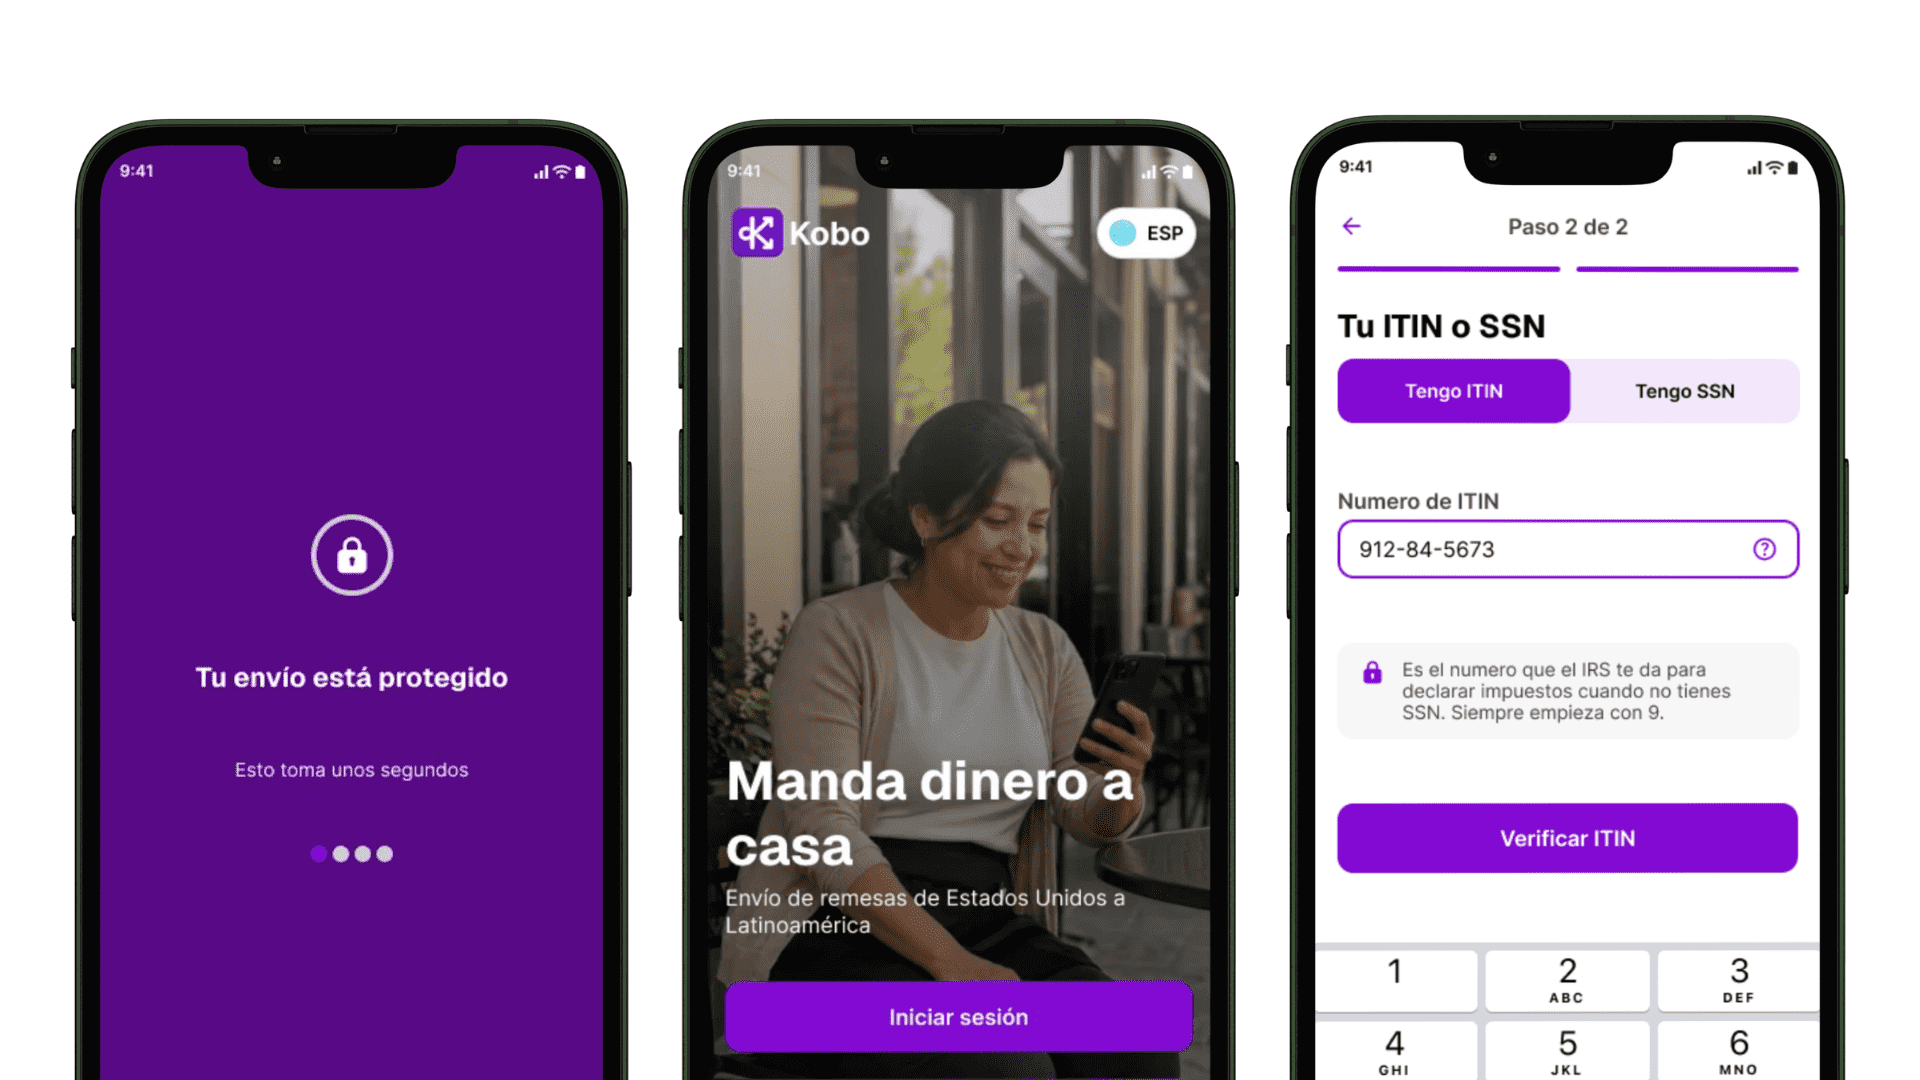
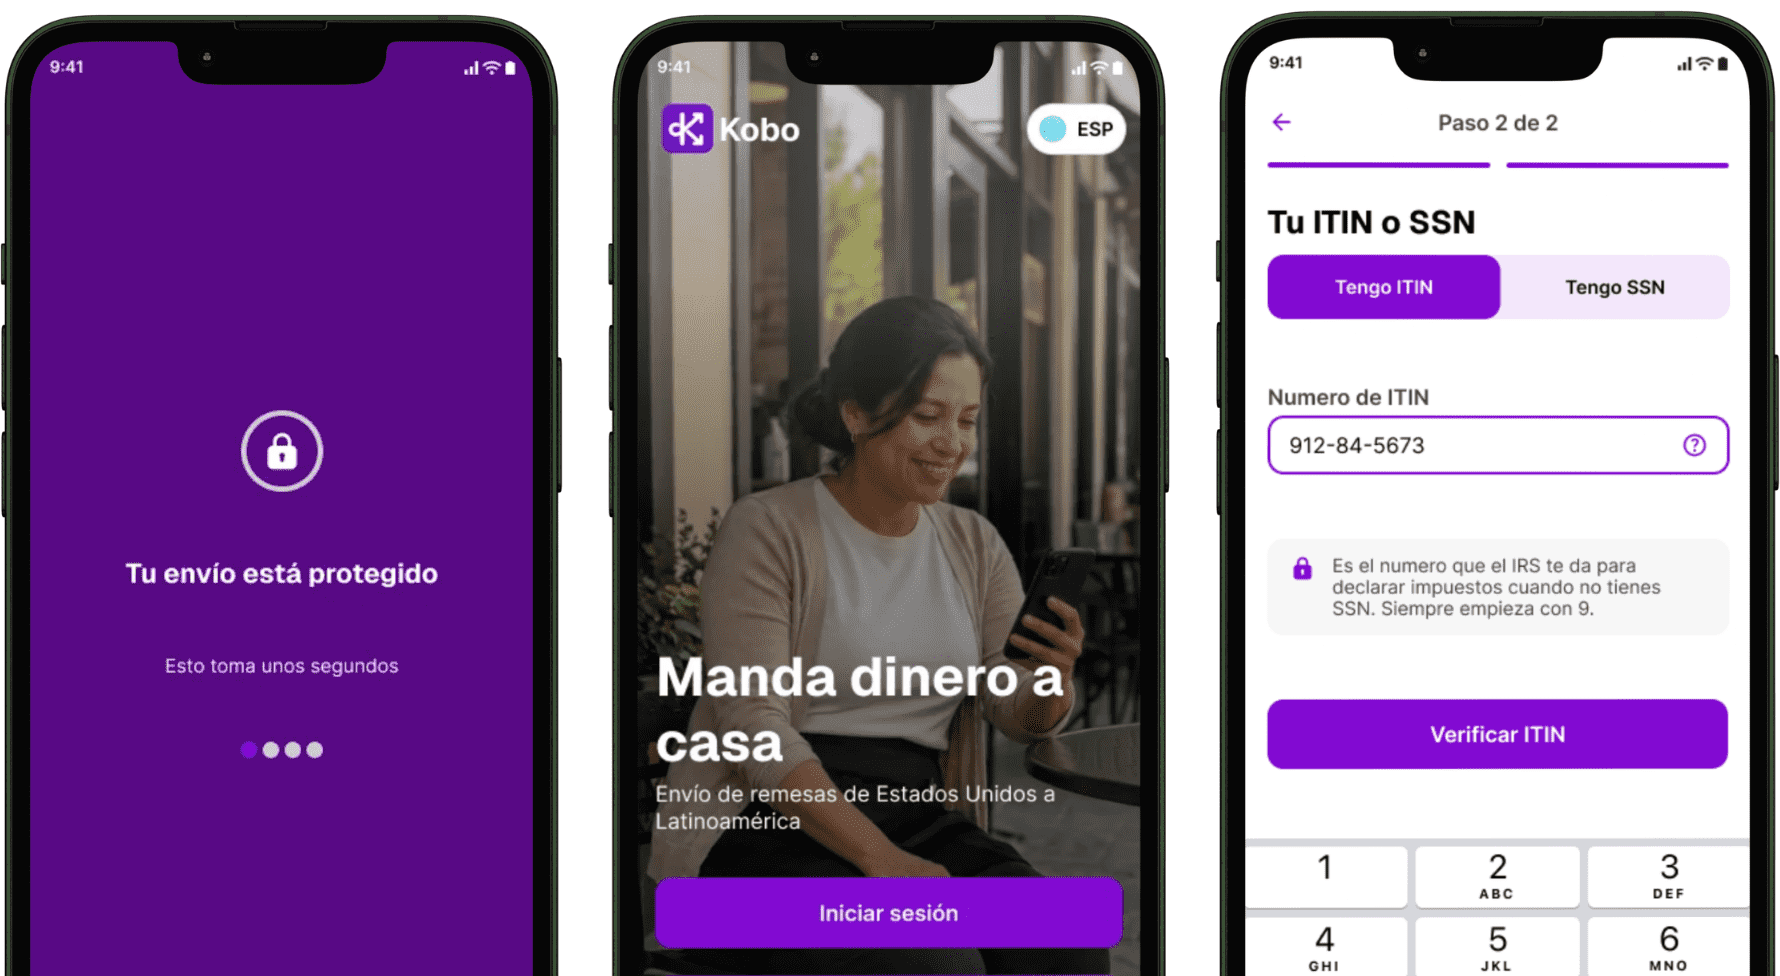
Inicio: ajusta la tarjeta flagship (margen, fondo blanco, animacion)
- Quita el fondo blanco de la imagen de mockups (era parte de la imagen
  fuente, no del CSS): se recorta el margen blanco excedente alrededor
  de los 3 telefonos.
- Aumenta el padding de la tarjeta de 20-32px a 28-48px y quita un
  margin-right negativo heredado del layout viejo que pegaba la imagen
  al borde derecho, para que se vea con mas aire.
- Suaviza la animacion de hover/active: quita el translateY (se sentia
  como un "brinco") y deja solo el cambio de fondo con una sombra mas
  ligera.

diff --git a/index.html b/index.html
@@ -46,9 +46,9 @@ html,body{margin:0;padding:0}
 .hv14:hover{background:#000 !important}
 .hv15:hover{color:#A75B7D !important;border-color:#A75B7D !important}
 .hv16:hover{color:#171717 !important;border-color:#171717 !important}
-.flagship-card{cursor:pointer;border-radius:20px;transition:background .25s ease,transform .25s ease,box-shadow .25s ease}
-.flagship-card:hover{background:#F7EDEE;transform:translateY(-3px);box-shadow:0 14px 32px rgba(167,91,125,.14)}
-.flagship-card:active{background:#F4DDE5;transform:translateY(-1px);box-shadow:0 6px 16px rgba(167,91,125,.12)}
+.flagship-card{cursor:pointer;border-radius:20px;transition:background .3s ease,box-shadow .3s ease}
+.flagship-card:hover{background:#F7EDEE;box-shadow:0 8px 20px rgba(167,91,125,.1)}
+.flagship-card:active{background:#F4DDE5;box-shadow:0 4px 12px rgba(167,91,125,.1)}
 </style>
 </head>
 <body>
@@ -95,7 +95,7 @@ html,body{margin:0;padding:0}
     </div>
 
     <div style="padding-top:clamp(32px,4vw,52px)">
-      <div class="flagship-card" data-go="Case study" role="button" tabindex="0" style="display:grid;grid-template-columns:repeat(auto-fit,minmax(min(100%,340px),1fr));gap:clamp(28px,4vw,56px);align-items:start;padding:clamp(20px,3vw,32px)">
+      <div class="flagship-card" data-go="Case study" role="button" tabindex="0" style="display:grid;grid-template-columns:repeat(auto-fit,minmax(min(100%,340px),1fr));gap:clamp(28px,4vw,56px);align-items:start;padding:clamp(28px,4vw,48px)">
         <div>
           <div style="display:flex;align-items:baseline;gap:14px;margin-bottom:16px">
             <span style="font-size:13px;color:#6E6E6E;font-weight:500">01</span>
@@ -115,7 +115,7 @@ html,body{margin:0;padding:0}
           </div>
           <div data-go="Case study" role="button" tabindex="0" style="cursor:pointer;display:inline-flex;align-items:center;gap:10px;height:52px;padding:0 28px;background:#171717;color:#FAFAFA;border-radius:8px;font-size:16.5px;font-weight:500;margin-top:28px;transition:background .18s ease" class="hv2">Ver case study <span style="font-size:17px">→</span></div>
         </div>
-        <div style="margin-right:clamp(-40px,-3vw,0px)">
+        <div>
           <div style="aspect-ratio: 4/5; min-height: 380px; background: url(&quot;img/mockup-page-mttzffej-o9qz.png&quot;) center / cover no-repeat; border-radius: 16px; padding: 16px 18px">
             
           </div>
